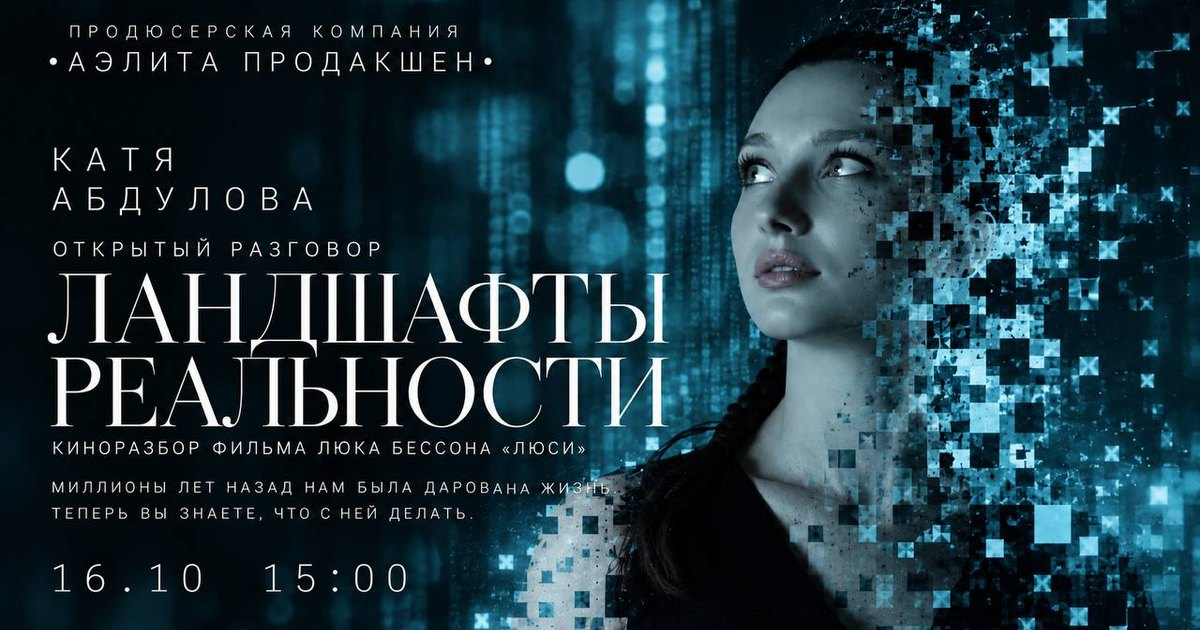
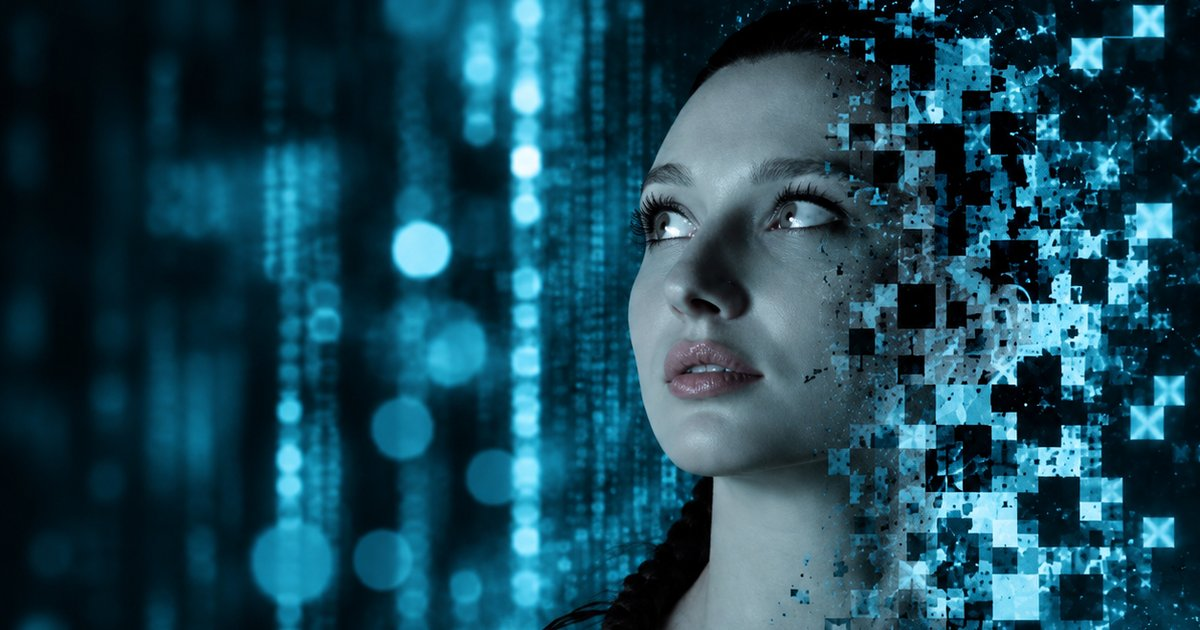
Site: выкладка из pack-v638

diff --git a/landshafty-realnosti/index.html b/landshafty-realnosti/index.html
@@ -48,7 +48,7 @@
 .fact-strip .f-item .lbl{font-family:'Montserrat',sans-serif;font-size:0.75rem;letter-spacing:.24em;text-transform:uppercase;color:var(--gold)}
 .fact-strip .f-item .val{font-family:'Montserrat',sans-serif;font-size:0.9375rem;color:var(--bone)}
 .lecture-hero .sub{color:var(--sand);font-size:1rem;margin:-6px 0 24px}
-.poster-fig{margin:36px 0 0}
+.poster-fig{margin:36px 0 0;max-width:560px}
 .poster-fig img{width:100%;height:auto;display:block}
 </style>
 <script type="application/ld+json">
@@ -147,7 +147,7 @@
     <p class="desc reveal">Открытый разговор Кати Абдуловой — киноразбор фильма Люка Бессона «Люси». История героини, которой вдруг открываются возможности, о которых она не подозревала, — повод поговорить о том, как мы видим реальность и что меняется, когда меняются сами правила, по которым мы её воспринимаем.</p>
     <p class="txt-kicker reveal">Ведущая</p>
     <p class="desc reveal">Катя Абдулова — куратор культурных проектов, исследователь, продюсер, психолог по образованию (Высшая школа психологии). Сооснователь AELITA PRODUCTION, куратор и продюсер фестиваля «Точка Кюри».</p>
-    <figure class="poster-fig reveal"><img src="/images/landshafty-realnosti.jpg" alt="Афиша: Катя Абдулова, открытый разговор «Ландшафты реальности», киноразбор фильма Люка Бессона «Люси», 16.10, 15:00" width="1280" height="720" loading="lazy"></figure>
+    <figure class="poster-fig reveal"><img src="/images/landshafty-realnosti.jpg" alt="Катя Абдулова — «Ландшафты реальности»" width="1200" height="1200" loading="lazy"></figure>
   </div>
 </section>
 

diff --git a/en/landshafty-realnosti/index.html b/en/landshafty-realnosti/index.html
@@ -48,7 +48,7 @@
 .fact-strip .f-item .lbl{font-family:'Montserrat',sans-serif;font-size:0.75rem;letter-spacing:.24em;text-transform:uppercase;color:var(--gold)}
 .fact-strip .f-item .val{font-family:'Montserrat',sans-serif;font-size:0.9375rem;color:var(--bone)}
 .lecture-hero .sub{color:var(--sand);font-size:1rem;margin:-6px 0 24px}
-.poster-fig{margin:36px 0 0}
+.poster-fig{margin:36px 0 0;max-width:560px}
 .poster-fig img{width:100%;height:auto;display:block}
 </style>
 <script type="application/ld+json">
@@ -147,7 +147,7 @@
     <p class="desc reveal">An open conversation with Katya Abdulova — a film talk on Luc Besson’s “Lucy”. The story of a heroine who suddenly gains abilities she never knew she had is a starting point for talking about how we see reality and what changes when the very rules by which we perceive it change.</p>
     <p class="txt-kicker reveal">Host</p>
     <p class="desc reveal">Katya Abdulova — curator of cultural projects, researcher, producer, psychologist by training (Higher School of Psychology). Co-founder of AELITA PRODUCTION, curator and producer of the “Tochka Cuire” festival.</p>
-    <figure class="poster-fig reveal"><img src="/images/landshafty-realnosti.jpg" alt="Poster: Katya Abdulova, open conversation “Landscapes of Reality”, a film talk on Luc Besson’s “Lucy”, Oct 16, 15:00" width="1280" height="720" loading="lazy"></figure>
+    <figure class="poster-fig reveal"><img src="/images/landshafty-realnosti.jpg" alt="Katya Abdulova — “Landscapes of Reality”" width="1200" height="1200" loading="lazy"></figure>
   </div>
 </section>
 

diff --git a/tickets/index.html b/tickets/index.html
@@ -144,7 +144,7 @@ a:focus-visible,button:focus-visible{outline:1px solid var(--gold);outline-offse
       </div>
     </div>
     <div class="event reveal has-photo" data-city="kaluga">
-      <img class="ev-bg" src="/images/landshafty-realnosti-og.jpg" alt="«Ландшафты реальности» — афиша открытого разговора Кати Абдуловой" loading="lazy" style="object-position:72% 35%">
+      <img class="ev-bg" src="/images/landshafty-realnosti.jpg" alt="Катя Абдулова — «Ландшафты реальности»" loading="lazy" style="object-position:60% 30%">
       <div class="ev-overlay">
       <div class="ev-date">16.10<small>Калуга</small></div>
       <div class="ev-info">

diff --git a/index.html b/index.html
@@ -439,7 +439,7 @@ footer p{color:var(--sand);font-size:0.875rem}
       </div>
     </div>
     <div class="event reveal has-photo" data-city="kaluga">
-      <img class="ev-bg" src="/images/landshafty-realnosti-og.jpg" alt="«Ландшафты реальности» — афиша открытого разговора Кати Абдуловой" loading="lazy" style="object-position:72% 35%">
+      <img class="ev-bg" src="/images/landshafty-realnosti.jpg" alt="Катя Абдулова — «Ландшафты реальности»" loading="lazy" style="object-position:60% 30%">
       <div class="ev-overlay">
       <div class="ev-date">16.10<small>Калуга</small></div>
       <div class="ev-info">

diff --git a/en/tickets/index.html b/en/tickets/index.html
@@ -144,7 +144,7 @@ a:focus-visible,button:focus-visible{outline:1px solid var(--gold);outline-offse
       </div>
     </div>
     <div class="event reveal has-photo" data-city="kaluga">
-      <img class="ev-bg" src="/images/landshafty-realnosti-og.jpg" alt="“Landscapes of Reality” — poster for Katya Abdulova’s open conversation" loading="lazy" style="object-position:72% 35%">
+      <img class="ev-bg" src="/images/landshafty-realnosti.jpg" alt="Katya Abdulova — “Landscapes of Reality”" loading="lazy" style="object-position:60% 30%">
       <div class="ev-overlay">
       <div class="ev-date">16.10<small>Kaluga</small></div>
       <div class="ev-info">

diff --git a/en/index.html b/en/index.html
@@ -439,7 +439,7 @@ footer p{color:var(--sand);font-size:0.875rem}
       </div>
     </div>
     <div class="event reveal has-photo" data-city="kaluga">
-      <img class="ev-bg" src="/images/landshafty-realnosti-og.jpg" alt="“Landscapes of Reality” — poster for Katya Abdulova’s open conversation" loading="lazy" style="object-position:72% 35%">
+      <img class="ev-bg" src="/images/landshafty-realnosti.jpg" alt="Katya Abdulova — “Landscapes of Reality”" loading="lazy" style="object-position:60% 30%">
       <div class="ev-overlay">
       <div class="ev-date">16.10<small>Kaluga</small></div>
       <div class="ev-info">
